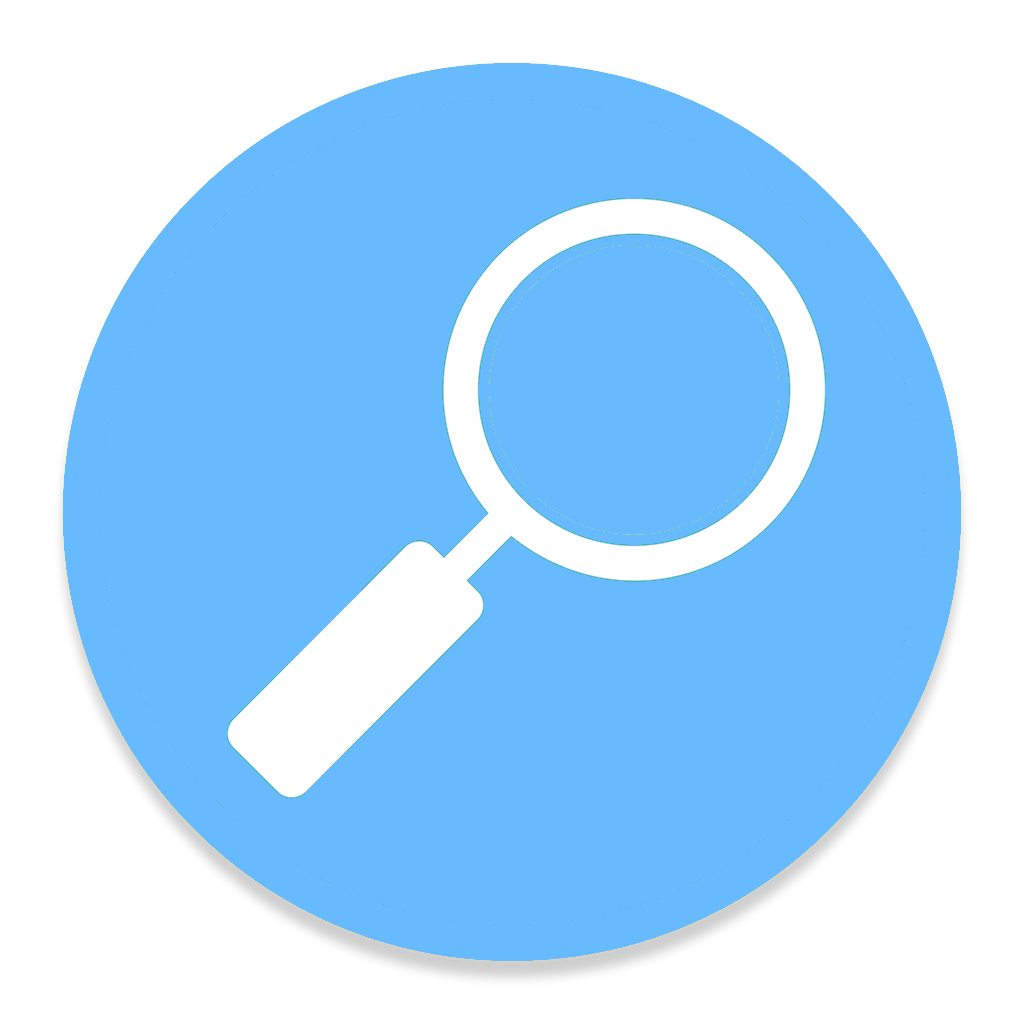
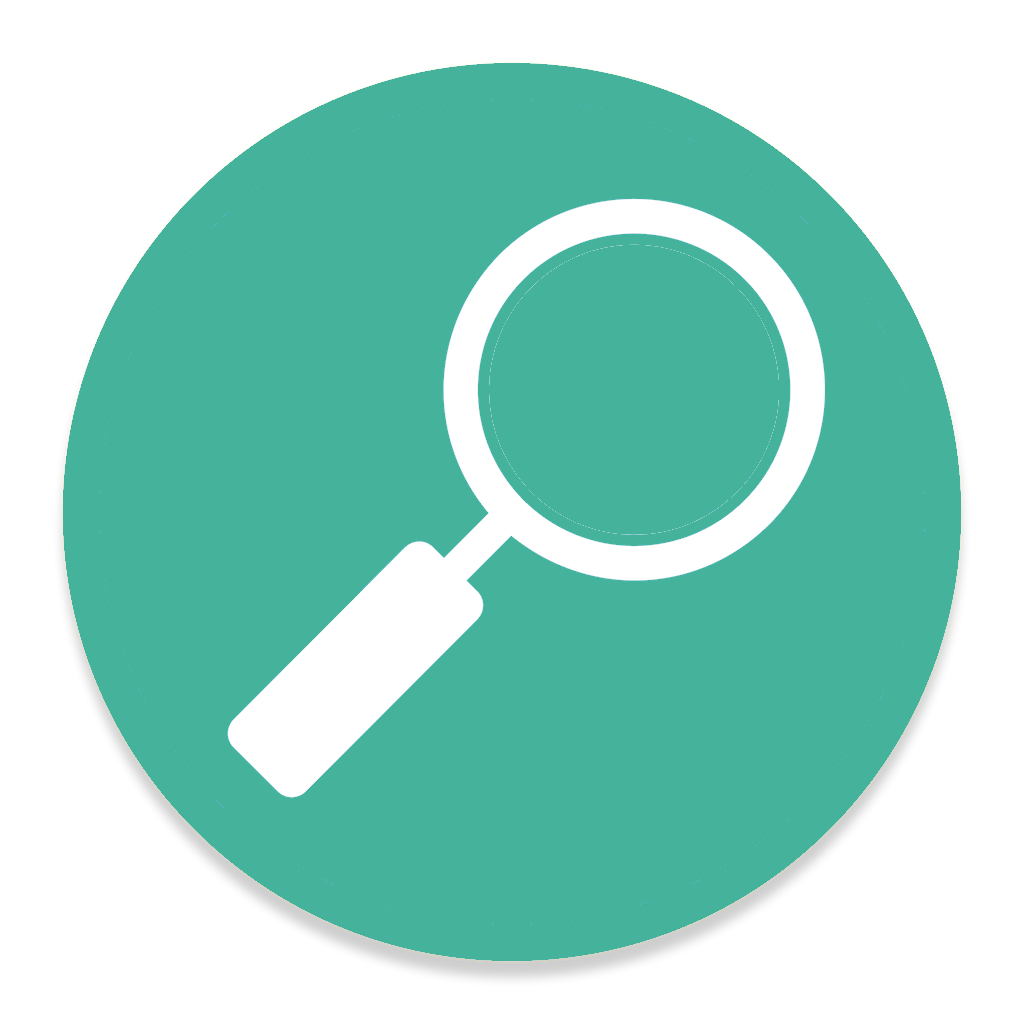
new site

diff --git a/index.html b/index.html
@@ -1,7 +1,7 @@
 <!doctype html>
 <head>
 	<meta http-equiv="Content-Type" content="text/html; charset=utf-8" />
-	<link rel="stylesheet" type="text/css" href="source.css">
+	<link rel="stylesheet" type="text/css" href="main.css">
 	<script>
 	  (function(i,s,o,g,r,a,m){i['GoogleAnalyticsObject']=r;i[r]=i[r]||function(){
 	  (i[r].q=i[r].q||[]).push(arguments)},i[r].l=1*new Date();a=s.createElement(o),
@@ -17,40 +17,36 @@
 <title>TourHelper</title>
 
 <body id="body">
-	<div class="popup_overlay">
-		<div class="popup">
+	<div>
+		<div  id="brand">
+			<img src="Helper.png" >
+		</div>
+
+		<div id="problem">
+			<p >Собираешься в путешествие и уже знаешь, куда и когда поедешь?</p>
 		</div>
 	</div>
-	<div id="brand">
-		<img src="Helper_new.png">
-	</div>
-
-	<div id="problem">
-		<p>Не знаете, где и с кем провести время в поездке? Спланируйте Ваше путешествие легко и быстро!
-	</div>
-
+	
+ 
 	<div id="product">
-		<div style="display: inline-table; position: relative; width: 23%; height: 10%; text-align: center;">
-			<img src="maps-icon-1.png" id="img">
-			<p id="p_back"><b>Задайте требования к поездке</b></p>
+		<div style="position: relative; width: 27%; height: 10%; text-align: center;">
+			<img src="map.png" id="img">
+			<p id="p_back"><b>Не знаешь, где провести время весело?</b></p>
 		</div>
-		<div style="display: inline-table; position: relative; width: 23%; height: 10%; text-align: center;">
-			<img src="Preview-0-icon.png" id="img">
-			<p id="p_back"><b>TourHelper найдет подходящие варианты</b></p>
+		<div style="position: relative; width: 27%; height: 10%; text-align: center; margin-left: 25%; margin-top:-10%;">
+			<img src="browser.png" id="img">
+			<p id="p_back"><b>Или не хочешь покупать кучу путеводителей?</b></p>
 		</div>
-		<div style="display: inline-table; position: relative; width: 23%; height: 10%; text-align: center;">
-			<img src="Sharepoint-icon-1.png" id="img">
-			<p id="p_back"><b>Подберите себе компанию</b></p>
+		<div style="position: relative; width: 27%; height: 10%; text-align: center; margin-left: 50%; margin-top:-10%;">
+			<img src="woman.png" id="img">
+			<p id="p_back"><b>А может быть не знаешь, с кем провести время в поездке?</b></p>
 		</div>
-		<div style="display: inline-table; position: relative; width: 23%; height: 10%; text-align: center;">
-			<img src="heart-icon-2.png" id="img">
-			<p id="p_back">Наслаждайтесь поездкой</p>
-		</div>
+		
 		
 	</div>
 
 	<div id="btn">
-		<button id="start" onclick="window.location.href='registration.html'"/>Попробовать
+		<button id="start" onclick="window.location.href='main.html'"/>Узнать больше
 	</div>
 
 </body>

diff --git a/main.html b/main.html
@@ -1,0 +1,51 @@
+<!doctype html>
+<head>
+	<meta http-equiv="Content-Type" content="text/html; charset=utf-8" />
+	<link rel="stylesheet" type="text/css" href="source.css">
+	<script>
+	  (function(i,s,o,g,r,a,m){i['GoogleAnalyticsObject']=r;i[r]=i[r]||function(){
+	  (i[r].q=i[r].q||[]).push(arguments)},i[r].l=1*new Date();a=s.createElement(o),
+	  m=s.getElementsByTagName(o)[0];a.async=1;a.src=g;m.parentNode.insertBefore(a,m)
+	  })(window,document,'script','//www.google-analytics.com/analytics.js','ga');
+
+	  ga('create', 'UA-55189184-1', 'auto');
+	  ga('send', 'pageview');
+
+	</script>
+</head>
+
+<title>О продукте</title>
+
+<body id="body">
+	
+	<div id="brand">
+		<img src="Helper.png">
+	</div>
+
+	
+
+	<div id="product">
+		<div style="display: inline-table; position: relative; width: 23%; height: 10%; text-align: center;">
+			<img src="maps-icon-1.png" id="img">
+			<p id="p_back"><b>Укажи место и дату поездки</b></p>
+		</div>
+		<div style="display: inline-table; position: relative; width: 23%; height: 10%; text-align: center;">
+			<img src="Preview-0-icon.png" id="img">
+			<p id="p_back"><b>TourHelper найдет интересные места</b></p>
+		</div>
+		<div style="display: inline-table; position: relative; width: 23%; height: 10%; text-align: center;">
+			<img src="Sharepoint-icon-1.png" id="img">
+			<p id="p_back"><b>Подбери себе компанию</b></p>
+		</div>
+		<div style="display: inline-table; position: relative; width: 23%; height: 10%; text-align: center;">
+			<img src="phone.png" id="img">
+			<p id="p_back">Всё о поездке в одном приложении</p>
+		</div>
+		
+	</div>
+
+	<div id="btn">
+		<button id="start" onclick="window.location.href='registration.html'"/>Попробовать
+	</div>
+
+</body>

diff --git a/reg_source.css b/reg_source.css
@@ -1,23 +1,23 @@
 body {
-	background-image: url(ski.jpg);
+	background-image: url(congruent_pentagon.png);
 	background-position: center center;
-	background-repeat: no-repeat;
-	background-attachment: fixed;
-	background-size: cover;
+
 }
 
 #brand {
 	position: relative;
-	margin-left: 64%; 
-	margin-top: 3%;
+	float: left;
+	margin: 10px 50px;
 }
 
 #form {
 	position: relative;
-	width: 28%;
+	width: 25%;
 	height: 30%;
 	margin-top: 10%;
-	margin-left: 65%;
+	margin-right: 18%;
+	float: right;
+	display: inline;
 }
 
 #input_email {
@@ -35,15 +35,15 @@ body {
 	width: 100%;
 	height: 100px;
 	border: solid;
-	border-color: #fff;
+	border-color: rgb(69,179,156);
 	border-width: 5px;
 	border-radius: 10px;
-	color: #fff;
+	color: #ebfdd4;
 	font-family: sans-serif;
 	font-size: 28px;
 	font-weight: bold;
 	text-transform: uppercase;
-	background-color: rgba(69,138,215, 0);
+	background-color: rgb(69,179,156);
 	margin: 10px;
 	margin-top: 40px;
 }
@@ -57,10 +57,29 @@ body {
 	height: 30%;
 	margin-top: -10%;
 	margin-left: -25%;
+	padding: 5px 5px;
 	display: none;
 	text-align: justify;
 	color: #fff;
 	font-family: Whipsmart;
 	font-size: 32px;
 	text-indent: 1.5em;
+	background-color: rgba(69,179,156, 0.7);
+	border-color:rgba(68,187,68, 0.7);
+	border-width: 5px;
+	border-radius: 10px;
+}
+
+#phone {
+	float: left;
+	display: inline;
+	width: 50%;
+	padding: 50px;
+	margin: 10px auto;
+}
+
+#main {
+	position: absolute;
+	margin-top: 10%;
+	width: 100%;
 }

diff --git a/main.css b/main.css
@@ -1,19 +1,37 @@
 body {
 	background-image: url(congruent_pentagon.png);
 	background-position: center center;
+
 }
+
 
 #brand {
 	position: relative;
 	float: left;
 	margin: 10px 50px;
+	display: inline;
+	width: 20%;
+}
+
+#problem {
+	background-color: rgba(0,0,0,0);
+	font-family: sans-serif;
+	font-size: 150%;
+	font-weight: bold;
+	text-transform: uppercase;
+	color: #45b39c;
+	float: right;
+	padding: 0px 50px;
+	display: inline;
+	width: 50%;
+	margin-top: 5%;
+
 }
 
 #btn {
-	margin-left: 35%;
+	margin: auto;
 	width: 30%;
 	height: 100px;
-	margin-top: 0%;
 }
 
 #start {
@@ -37,29 +55,29 @@ body {
 	width: 90%;
 	height: 20%;
 	position: relative;
-	margin:  5% 5%;
+	margin: 0% 10%;
 	display: inline-block;
 	top: 0; left: 0; bottom: 0; right: 0;
-	color:  #45b39c;
-	font-size: 150%;
+	color: #45b39c;
+	font-size: 130%;
 	font-family: sans-serif;
 	font-style: oblique;
-	border-color: rgba(0,0,0, 0.3);
+	border-color: rgba(235,253,212, 0.5);
 	border-width: 5px;
 	border-radius: 10px;
 	padding-top: 15px;
-}
+	overflow-x: hidden;
+} 
 
 #img {
-	width: 50%;
+	width: 30%;
 	position: relative;
 }
 
 #p_back {
-	background-color: rgba(255,255,255, 0.5);	
 	min-height: 65px;
 	font-weight: bold;
 	text-align: center;
 	vertical-align: middle;
+	background-color: rgba(235,253,212, 0.7);
 }
-

diff --git a/registration.html b/registration.html
@@ -36,16 +36,22 @@
 
 <body id="body">
 	<div id="brand">
-		<img src="Helper_new.png">
+		<img src="Helper.png">
 	</div>
 
-	<form id="form" method="post">
-		<input type="email" placeholder="Введите свой e-mail" id="input_email" name="email" required>
-		<input id="btn" type="submit" value="Зарегистрироваться">
+	<div id="main">
+		<div id="phone">
+			<center><img src="telefon.png"></center>
+		</div>
 
-	<div id="message">
-		<p>Благодарим за регистрацию! Наш сервис еще не запущен. 
-		Но у Вас есть уникальная возможность поучаствовать в тестировании. Ваше мнение для нас очень важно
+		<form id="form" method="post">
+			<input type="email" placeholder="Введите свой e-mail" id="input_email" name="email" required>
+			<input id="btn" type="submit" value="Зарегистрироваться">
+
+		<div id="message">
+			<p>Благодарим за регистрацию! Наш сервис еще не запущен. 
+			Но у Вас есть уникальная возможность поучаствовать в тестировании. Ваше мнение для нас очень важно
+		</div>
 	</div>
 
 </body>
